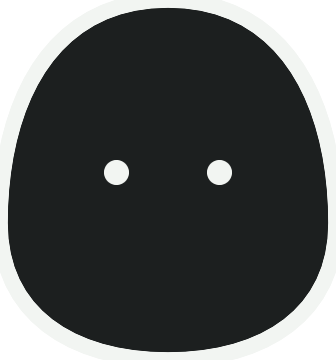
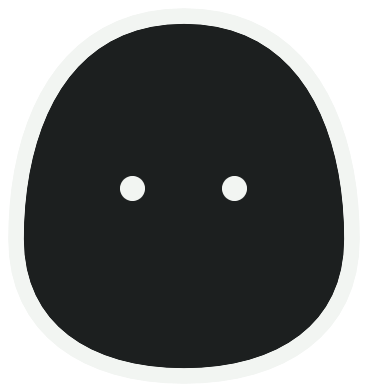
Stop clipping the character in the rendered assets
The render canvas was exactly the body box, but the outline is centred on the
path, so half its width fell outside the image bounds and was sliced off on all
four sides. Pad the canvas by a full line width. The app was never affected —
there the body sits inside a larger 76x84 canvas.

Also drops a 10%-white hairline overlay on the link-preview card that sat on top
of an already-stroked body and rendered invisible.

Changed region(s): [[0.0, 0.0, 0.9821, 0.9778], [0.2976, 0.4278, 0.4167, 0.5194], [0.5952, 0.4278, 0.7143, 0.5194]]

diff --git a/tools/make-assets.swift b/tools/make-assets.swift
@@ -90,7 +90,6 @@ struct OGCard: View {
                 .frame(width: 600, alignment: .leading)
 
                 Buddy(skin: .dark, u: 5.2)
-                    .overlay(EggShape().stroke(Color.white.opacity(0.10), lineWidth: 1))
                     .shadow(color: .black.opacity(0.5), radius: 34, y: 18)
             }
             .padding(.horizontal, 80)
@@ -132,9 +131,16 @@ private func write(_ view: some View, path: String, width: CGFloat, height: CGFl
 @MainActor
 func characters() {
     // Transparent, generously sized; the page scales them down with CSS.
+    //
+    // The canvas is padded rather than matching the body exactly: the outline is
+    // centred on the path, so half its width sits outside the body box and the
+    // image bounds would otherwise slice it off on all four sides.
+    let u: CGFloat = 6
+    let pad = 2.6 * u
     for (name, skin) in [("light", Skin.light), ("dark", Skin.dark)] {
-        renderPNG(Buddy(skin: skin, u: 6), to: "docs/assets/buddy-\(name).png",
-                  width: 56 * 6, height: 60 * 6)
+        renderPNG(Buddy(skin: skin, u: u).padding(pad),
+                  to: "docs/assets/buddy-\(name).png",
+                  width: 56 * u + pad * 2, height: 60 * u + pad * 2)
     }
     print("✅ docs/assets/buddy-{light,dark}.png")
 }
